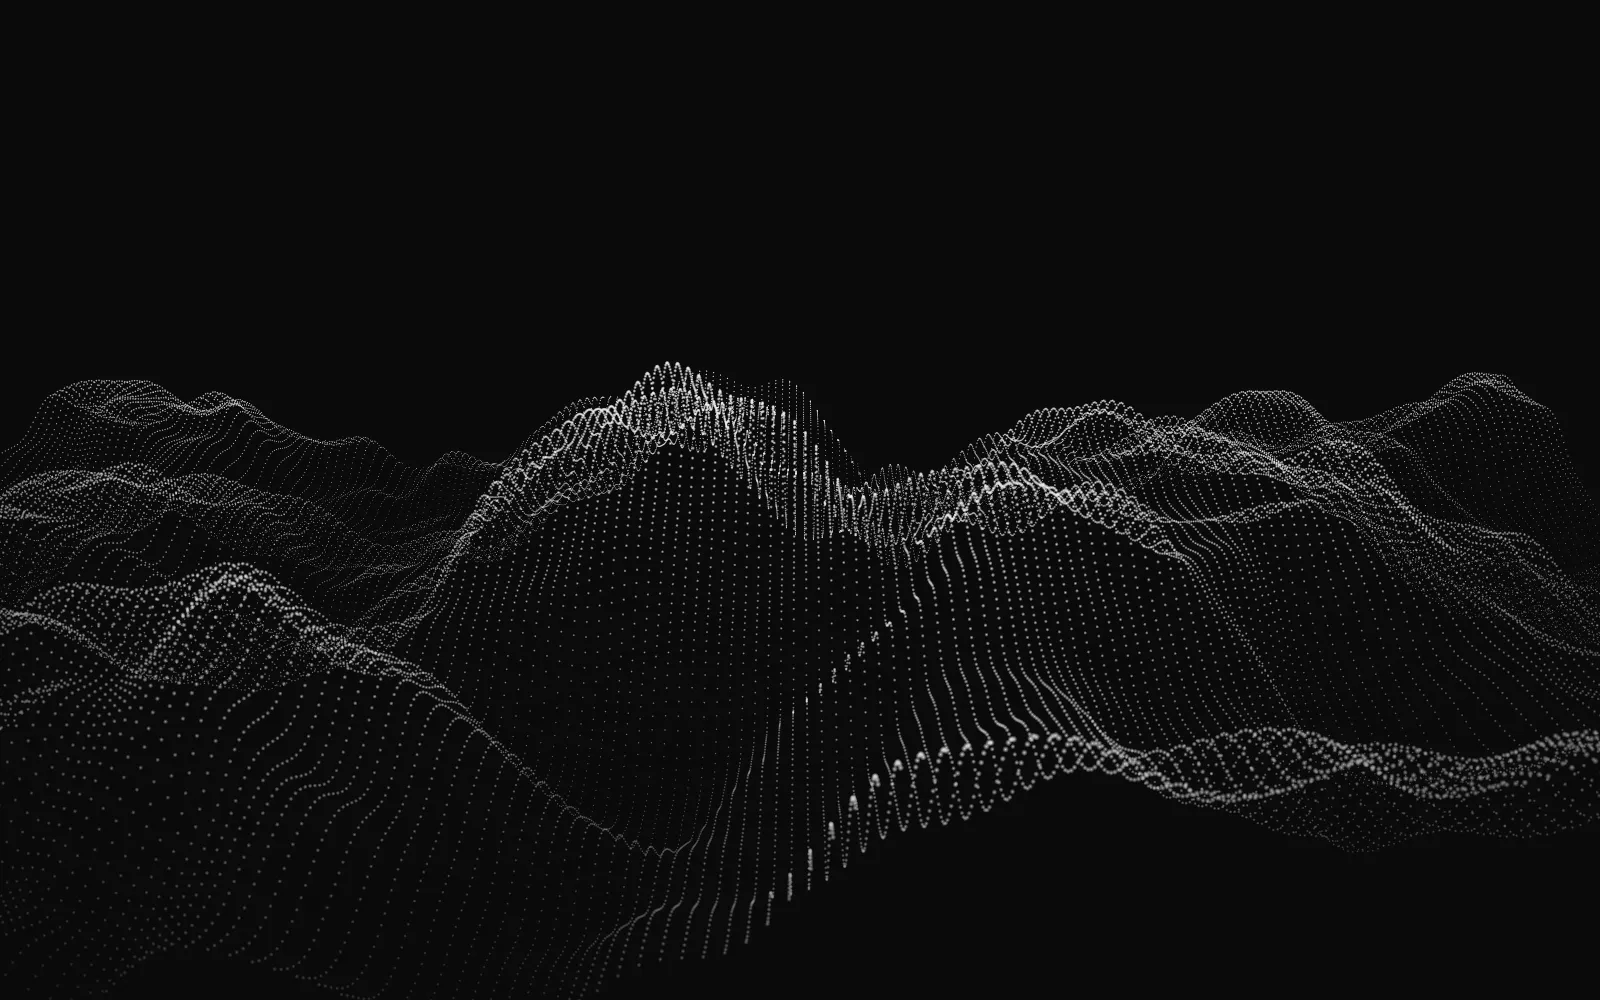
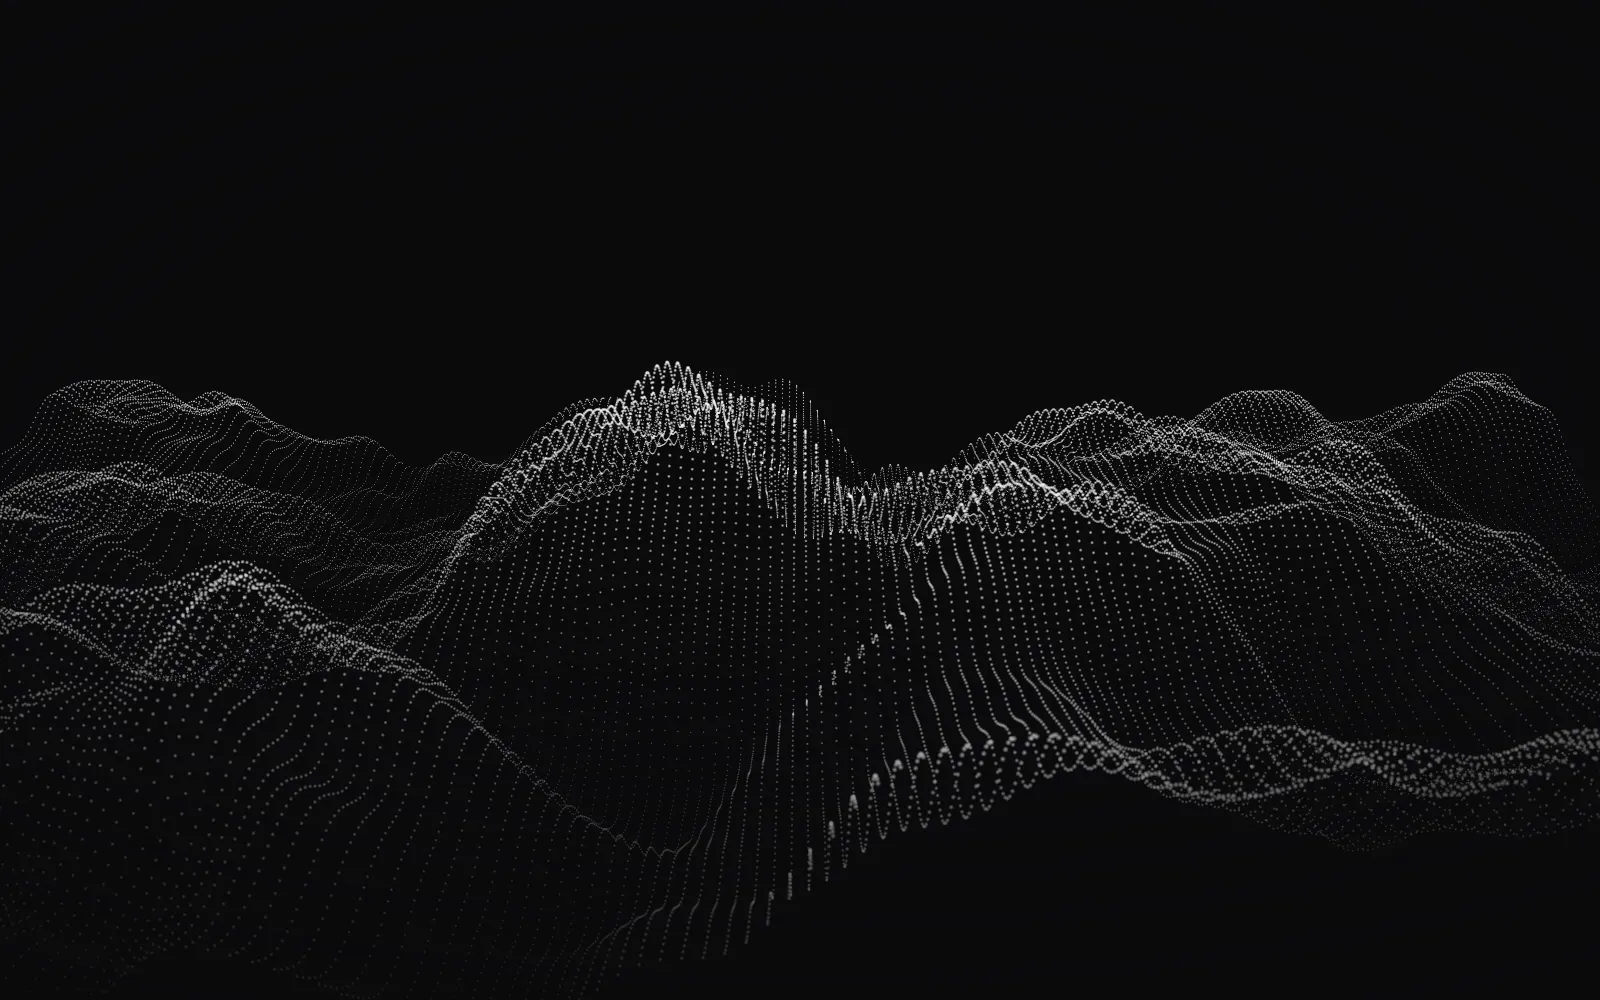
fix: review pass on the redesign branch
- Hide the hero still once the live canvas is ready (no double particle field);
  capture script hides it too so re-captures stay clean
- Drop the English body font override that fell back to the 700-only face
- Chinese word splitting keeps closing punctuation attached and latin runs whole
- Close the mobile menu (and release scroll lock) when the viewport widens past 768px
- Manifest description and colors updated to the new site
- SaveVia screenshots swapped for banner-free screens; sources documented
- Test that shrinking below 768px disposes the engine and removes the canvas

diff --git a/src/test/fixpass.test.jsx b/src/test/fixpass.test.jsx
@@ -1,0 +1,68 @@
+import { vi } from 'vitest'
+import { readFileSync } from 'node:fs'
+import { resolve } from 'node:path'
+import { act, screen, waitFor } from '@testing-library/react'
+import userEvent from '@testing-library/user-event'
+import { renderWithProviders } from './renderWithProviders'
+import { splitWords } from '../lib/text'
+
+const css = readFileSync(resolve(process.cwd(), 'src/index.css'), 'utf8')
+
+// Review finding 1: the still image must give way to the live canvas.
+test('stylesheet hides the still once the engine is ready', () => {
+  expect(css).toMatch(/\.hero\.is-engine-ready \.hero-still\s*\{[^}]*opacity:\s*0/)
+})
+
+// Review finding 3: english body copy must not fall back to the 700-only display face.
+test('english body text is not forced onto Space Grotesk', () => {
+  expect(css).not.toMatch(/:lang\(en\)\s*body/)
+})
+
+// Review finding 4: chinese line-start punctuation and latin runs stay in one unit.
+test('splitWords keeps chinese punctuation attached and latin runs whole', () => {
+  expect(splitWords('AI。', 'zh')).toEqual(['AI。'])
+  expect(splitWords('开始，用', 'zh')).toEqual(['开', '始，', '用'])
+  expect(splitWords('幻灯片里的 AI。每', 'zh').join('')).toBe('幻灯片里的 AI。每')
+  expect(splitWords('有想法？聊聊。', 'zh')).toEqual(['有', '想', '法？', '聊', '聊。'])
+})
+
+// Review finding 5: widening past the breakpoint closes the menu and releases scroll.
+test('menu closes when the viewport grows past 768px', async () => {
+  const listeners = []
+  const original = window.matchMedia
+  window.matchMedia = vi.fn(query => ({
+    matches: false,
+    media: query,
+    addEventListener: (_, cb) => listeners.push(cb),
+    removeEventListener: () => {},
+  }))
+  const { default: Nav } = await import('../components/Nav')
+  const user = userEvent.setup()
+  renderWithProviders(<Nav />)
+  const button = screen.getByRole('button', { name: '菜单' })
+  await user.click(button)
+  expect(button).toHaveAttribute('aria-expanded', 'true')
+  act(() => listeners.forEach(cb => cb({ matches: true })))
+  expect(button).toHaveAttribute('aria-expanded', 'false')
+  expect(document.body.style.overflow).toBe('')
+  window.matchMedia = original
+})
+
+// Review finding 6: the manifest ships too, so it obeys the copy rules and the palette.
+test('web manifest carries the new description and palette', () => {
+  const manifest = JSON.parse(readFileSync(resolve(process.cwd(), 'public/site.webmanifest'), 'utf8'))
+  expect(manifest.description).not.toMatch(/赋能|引领|卓越|一站式|创新科技/)
+  expect(manifest.theme_color.toUpperCase()).toBe('#0A0A0B')
+  expect(manifest.background_color.toUpperCase()).toBe('#0A0A0B')
+})
+
+// Review finding 7: product data must not point at the screenshots carrying the savings banner.
+test('savevia screens are the banner-free set', () => {
+  const { PRODUCTS } = require('../data/products')
+  const savevia = PRODUCTS.find(p => p.slug === 'savevia')
+  expect(savevia.screens.map(s => s.src)).toEqual(['/screens/savevia-1.webp', '/screens/savevia-2.webp'])
+  const manifest = readFileSync(resolve(process.cwd(), 'public/screens/SOURCES.md'), 'utf8')
+  expect(manifest).toMatch(/savevia-1\.webp ← public\/SaveVia\/4\.png/)
+  expect(manifest).toMatch(/savevia-2\.webp ← public\/SaveVia\/6\.png/)
+  expect(manifest).not.toMatch(/savevia-\d\.webp ← public\/SaveVia\/1\.png/)
+})

diff --git a/src/test/heroEngineUnmount.test.jsx b/src/test/heroEngineUnmount.test.jsx
@@ -1,0 +1,27 @@
+import { vi } from 'vitest'
+import { act, waitFor } from '@testing-library/react'
+import { renderWithProviders } from './renderWithProviders'
+
+const field = { setPointer: vi.fn(), setScroll: vi.fn(), pause: vi.fn(), resume: vi.fn(), resize: vi.fn(), dispose: vi.fn() }
+vi.mock('../engine/waveField', () => ({ createWaveField: vi.fn(() => field) }))
+vi.mock('three', () => ({}))
+
+// Review finding 8 / Review Focus 1: shrinking below 768 after mount tears the engine down cleanly.
+test('shrinking the window below 768px disposes the engine and removes the canvas', async () => {
+  vi.spyOn(HTMLCanvasElement.prototype, 'getContext').mockImplementation(() => ({}))
+  Object.defineProperty(window, 'innerWidth', { configurable: true, writable: true, value: 1280 })
+  const { default: Hero } = await import('../components/Hero')
+  renderWithProviders(<Hero />)
+  await waitFor(() => expect(document.querySelector('.hero-engine canvas.is-ready')).not.toBeNull())
+  expect(document.querySelector('.hero.is-engine-ready')).not.toBeNull()
+  vi.useFakeTimers()
+  window.innerWidth = 700
+  act(() => {
+    window.dispatchEvent(new Event('resize'))
+    vi.advanceTimersByTime(250)
+  })
+  vi.useRealTimers()
+  expect(field.dispose).toHaveBeenCalledTimes(1)
+  expect(document.querySelector('.hero-engine canvas')).toBeNull()
+  expect(document.querySelector('.hero.is-engine-ready')).toBeNull()
+})

diff --git a/src/components/HeroEngine.jsx b/src/components/HeroEngine.jsx
@@ -7,6 +7,7 @@ export default function HeroEngine() {
   useEffect(() => {
     const host = hostRef.current
     if (!host) return undefined
+    const section = host.parentElement
     let field = null
     let cancelled = false
     let pointerRaf = 0
@@ -63,6 +64,7 @@ export default function HeroEngine() {
           return
         }
         canvas.classList.add('is-ready')
+        section?.classList.add('is-engine-ready')
         window.addEventListener('pointermove', onPointer, { passive: true })
         window.addEventListener('scroll', onScroll, { passive: true })
         window.addEventListener('resize', onResize)
@@ -82,6 +84,7 @@ export default function HeroEngine() {
       observer.disconnect()
       field?.dispose()
       canvas.remove()
+      section?.classList.remove('is-engine-ready')
     }
   }, [])
 

diff --git a/src/lib/text.js b/src/lib/text.js
@@ -1,5 +1,10 @@
-// Split copy into animatable units: characters for Chinese, whitespace-separated words for English.
+// Split copy into animatable units.
+// zh: one unit per CJK character, but latin/digit runs stay whole and closing punctuation
+//     (，。、；：？！）」』) attaches to the unit before it, so a line never starts with it.
+// en: whitespace-separated words.
+const ZH_UNIT = /[A-Za-z0-9]+[，。、；：？！）」』]*|\s+|[^\sA-Za-z0-9][，。、；：？！）」』]*/g
+
 export function splitWords(text, lang) {
-  if (lang === 'zh') return Array.from(text)
+  if (lang === 'zh') return text.match(ZH_UNIT) ?? []
   return text.split(/\s+/).filter(Boolean)
 }

diff --git a/src/test/manifesto.test.jsx b/src/test/manifesto.test.jsx
@@ -6,10 +6,11 @@ import { translations } from '../translations'
 
 beforeEach(() => localStorage.clear())
 
-test('splitWords splits chinese per character and round-trips', () => {
+test('splitWords round-trips chinese and never starts a unit with punctuation', () => {
   const parts = splitWords('能上线的，才算数。', 'zh')
-  expect(parts.length).toBe('能上线的，才算数。'.length)
   expect(parts.join('')).toBe('能上线的，才算数。')
+  expect(parts.length).toBeGreaterThan(1)
+  for (const unit of parts) expect(unit).not.toMatch(/^[，。、；：？！）」』]/)
 })
 
 test('splitWords splits english on whitespace', () => {

diff --git a/src/index.css b/src/index.css
@@ -50,12 +50,6 @@ body {
   overflow-x: hidden;
 }
 
-:lang(en) body,
-body:lang(en) {
-  font-family: "Space Grotesk", var(--font-body);
-  font-weight: 400;
-}
-
 /* Grain: fixed feTurbulence layer, z 1, above engine (z 0), below content (z 5) */
 body::before {
   content: "";
@@ -382,6 +376,14 @@ img {
 
 .hero-engine canvas.is-ready {
   opacity: 1;
+}
+
+.hero-still {
+  transition: opacity 600ms ease;
+}
+
+.hero.is-engine-ready .hero-still {
+  opacity: 0;
 }
 
 .hero-content {

diff --git a/src/components/Nav.jsx b/src/components/Nav.jsx
@@ -45,6 +45,16 @@ export default function Nav() {
   }, [])
 
   useEffect(() => {
+    const mq = window.matchMedia?.('(min-width: 768px)')
+    if (!mq?.addEventListener) return undefined
+    const onChange = e => {
+      if (e.matches) setOpen(false)
+    }
+    mq.addEventListener('change', onChange)
+    return () => mq.removeEventListener('change', onChange)
+  }, [])
+
+  useEffect(() => {
     if (!open) {
       document.body.style.overflow = ''
       return undefined

diff --git a/public/screens/SOURCES.md b/public/screens/SOURCES.md
@@ -1,0 +1,10 @@
+# Screenshot sources
+
+Regenerate with `npm run optimize:images -- <inputs> --out public/screens --prefix <name>`.
+Originals live in git history at commit 1adf946 (`git show 1adf946:<path>`).
+
+- savevia-1.webp ← public/SaveVia/4.png (card selection screen)
+- savevia-2.webp ← public/SaveVia/6.png (net annual savings screen)
+- moodtini-1.webp ← public/moodtini.png (web homepage)
+
+Not used: SaveVia/1.png (welcome screen with a "Save $300 - $1,000 per year" banner; the site does not make that claim).
